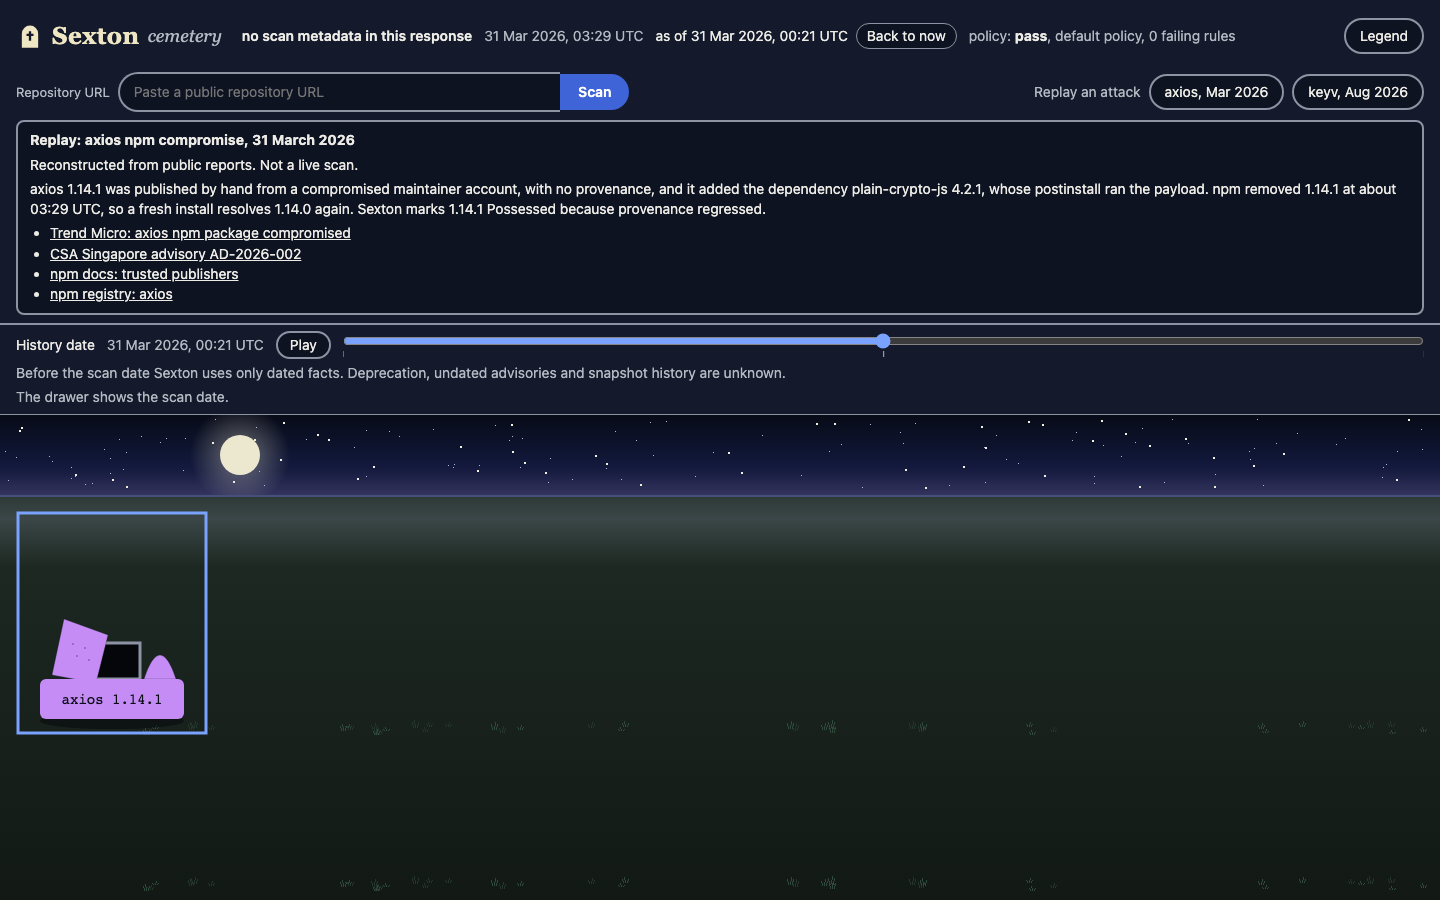
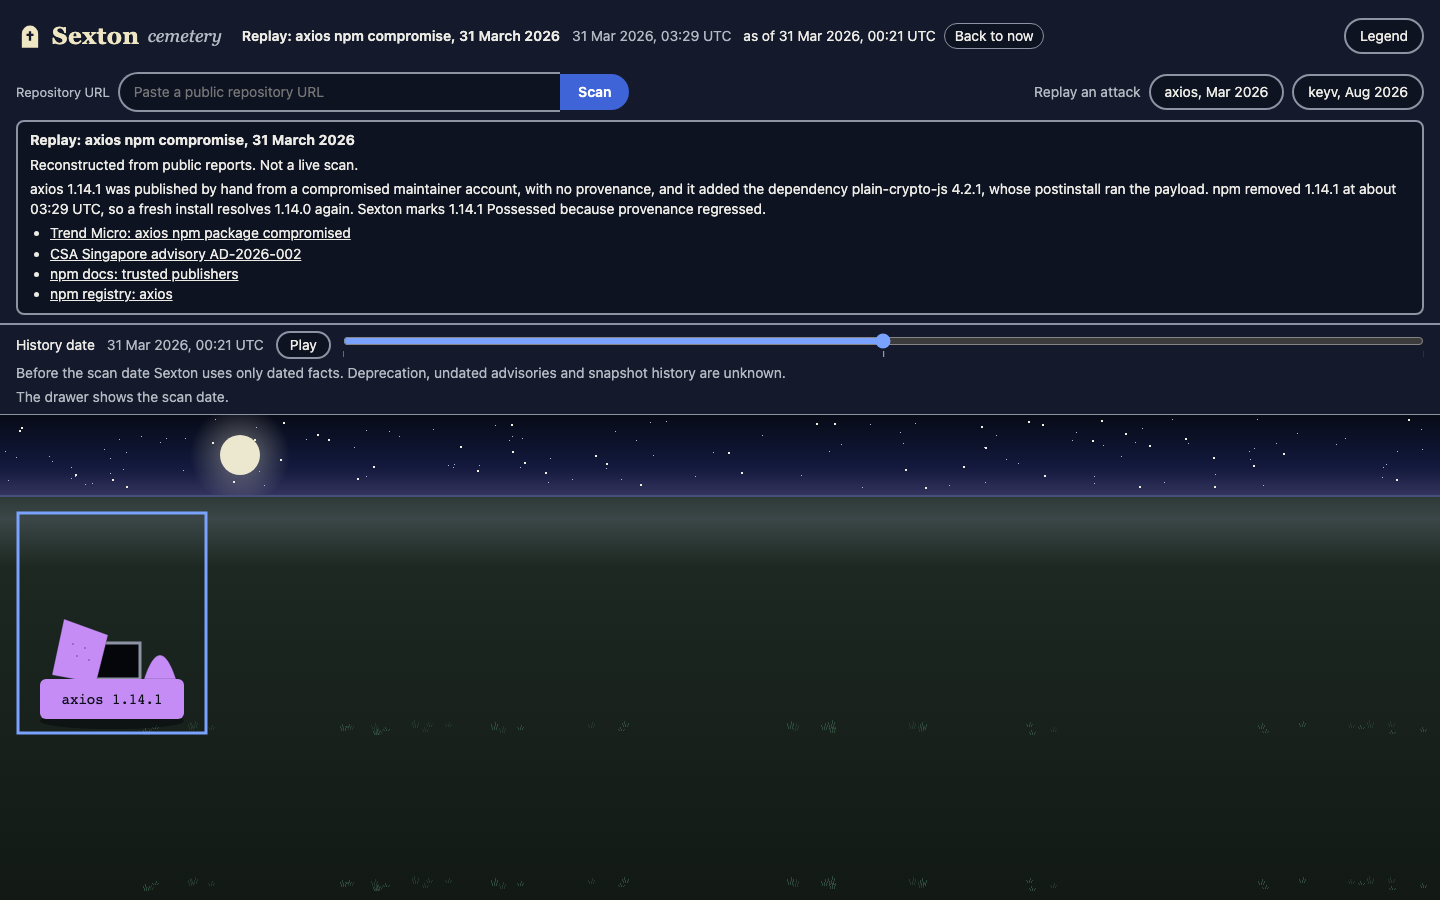
fix(web): replay header and policy line

Changed region(s): [[0.1562, 0.0311, 0.8438, 0.0622]]

diff --git a/packages/web/src/header/header-model.ts b/packages/web/src/header/header-model.ts
@@ -21,6 +21,8 @@ export interface HeaderModel {
   readonly policyLabel: "default policy" | "policy file";
   readonly failingRules: number;
   readonly evidenceLinks: EvidenceLinks | null;
+  /** False on a replay: its policy result is for the replay's end time, not for the date the scrubber shows. */
+  readonly showPolicy: boolean;
 }
 
 function unlockedNoticeFor(unlocked: boolean, names: readonly string[]): string | null {
@@ -44,12 +46,15 @@ function evidenceLinksFor(response: ScanResponse, isDemo: boolean, hostedApiBase
   return { json: `${base}&format=json`, markdown: `${base}&format=md` };
 }
 
-/** Pure. The demo label comes from isDemo only and never from the repository name. */
+/**
+ * Pure. The demo label comes from isDemo only and never from the repository name. A replay shows its title in place
+ * of the repository and hides the policy line.
+ */
 export function headerModel(response: ScanResponse, isDemo: boolean, hostedApiBase: string | null = null): HeaderModel {
   const { report, policy } = response;
   const scan = report.scan;
   return {
-    repoText: scan === undefined ? NO_SCAN_METADATA_TEXT : scan.repo.url,
+    repoText: response.replay !== undefined ? response.replay.title : scan === undefined ? NO_SCAN_METADATA_TEXT : scan.repo.url,
     demoLabel: isDemo && response.replay === undefined ? DEMO_LABEL_TEXT : null,
     scanTime: report.generatedAt,
     unlockedNotice: scan === undefined ? null : unlockedNoticeFor(scan.unlocked, scan.unlockedPackages),
@@ -61,5 +66,6 @@ export function headerModel(response: ScanResponse, isDemo: boolean, hostedApiBa
     policyLabel: policy.source === "default" ? "default policy" : "policy file",
     failingRules: policy.rules.filter((rule) => !rule.pass).length,
     evidenceLinks: evidenceLinksFor(response, isDemo, hostedApiBase),
+    showPolicy: response.replay === undefined,
   };
 }

diff --git a/packages/web/test/header.test.tsx b/packages/web/test/header.test.tsx
@@ -283,3 +283,25 @@ describe("Header bar (cemetery-polish task 8)", () => {
     ]);
   });
 });
+
+// Fix after review of cemetery-time-fixes: a replay names itself and hides the policy line, every other scan keeps both.
+describe("replay header text", () => {
+  it("shows the replay title and no policy line for a replay, and the repository and policy line without one", () => {
+    const base = cheapScan(1);
+    const replay = { ...base, replay: { id: "axios" as const, title: "Replay: axios npm compromise, 31 March 2026", summary: "s", sources: [{ label: "l", url: "https://example.com/" }] } };
+    const withReplay = headerModel(replay, false);
+    expect(withReplay.repoText).toBe("Replay: axios npm compromise, 31 March 2026");
+    expect(withReplay.showPolicy).toBe(false);
+    const plain = headerModel(base, false);
+    expect(plain.repoText).not.toBe("Replay: axios npm compromise, 31 March 2026");
+    expect(plain.repoText).toMatch(/^(https:\/\/github\.com\/|no scan metadata in this response$)/);
+    expect(plain.showPolicy).toBe(true);
+    const shown = render(<Header model={withReplay} theme="light" apiConfigured={true} onSubmit={noSubmit} />);
+    expect(shown.container.querySelector(".header-policy")).toBeNull();
+    expect(shown.container.textContent).toContain("Replay: axios npm compromise, 31 March 2026");
+    shown.unmount();
+    const kept = render(<Header model={plain} theme="light" apiConfigured={true} onSubmit={noSubmit} />);
+    expect(kept.container.querySelector(".header-policy")?.textContent).toMatch(/^policy: (pass|fail), /);
+    kept.unmount();
+  });
+});

diff --git a/packages/web/test/replay.test.tsx b/packages/web/test/replay.test.tsx
@@ -238,6 +238,23 @@ describe("the replay through the scrubber (requirement 20)", () => {
     }
   });
 
+  it("shows the replay title in place of the repository and no policy line, at every Stop", async () => {
+    for (const id of REPLAY_IDS) {
+      const { container } = mount(`?replay=${id}`);
+      await ready();
+      const title = (readReplay(id) as { replay: { title: string } }).replay.title;
+      for (let i = 0; i < EXPECTED_SEGMENTS[id].length; i += 1) {
+        move(i);
+        expect(container.querySelector(".repo-text")?.textContent).toBe(title);
+        expect(container.querySelector(".header-policy")).toBeNull();
+        const header = container.querySelector("header.site-header")?.textContent ?? "";
+        expect(header).not.toContain("no scan metadata in this response");
+        expect(header).not.toContain("policy:");
+      }
+      cleanup();
+    }
+  });
+
   it("returns to 1.14.0 at the end of the axios replay", async () => {
     const { container } = mount("?replay=axios");
     await ready();

diff --git a/packages/web/src/header/Header.tsx b/packages/web/src/header/Header.tsx
@@ -69,9 +69,11 @@ export function Header({ model, theme, apiConfigured, onSubmit, fieldRef, asOf, 
               )}
               {model.unlockedNotice === null ? null : <p className="notice notice-unlocked">{model.unlockedNotice}</p>}
               {model.cappedNotice === null ? null : <p className="notice notice-capped">{model.cappedNotice}</p>}
-              <p className="header-policy">
-                policy: <strong>{model.policyStatus}</strong>, {model.policyLabel}, {failingRulesText(model.failingRules)}
-              </p>
+              {model.showPolicy ? (
+                <p className="header-policy">
+                  policy: <strong>{model.policyStatus}</strong>, {model.policyLabel}, {failingRulesText(model.failingRules)}
+                </p>
+              ) : null}
             </>
           )}
         </div>

diff --git a/packages/web/e2e/smoke.spec.ts b/packages/web/e2e/smoke.spec.ts
@@ -148,6 +148,9 @@ test("the axios replay at its Possessed stop, for the README", async ({ page, ba
   await expect(grave).toHaveAttribute("aria-label", "axios 1.14.1, Possessed");
   await expect(page.locator('[role="note"]')).toBeVisible();
   await expect(page.getByRole("dialog")).toHaveCount(0);
+  // A replay names itself in the header and shows no policy line (its policy is for the replay's end time).
+  await expect(page.locator(".repo-text")).toHaveText("Replay: axios npm compromise, 31 March 2026");
+  await expect(page.locator(".header-policy")).toHaveCount(0);
   // Move focus off the slider so no focus ring is in the picture, then wait two frames for the repaint.
   await scrubber.blur();
   await waitForFirstPaint(page);

diff --git a/.kiro/specs/cemetery-time-fixes/tasks.md b/.kiro/specs/cemetery-time-fixes/tasks.md
@@ -11,7 +11,7 @@ Run-time notes for the agents:
 - Tests change only where design.md lists a Deliberate test change (numbered 1 to 19 there). Any other existing test that fails is a regression: fix the source, not the test.
 - Change only `packages/engine`, `packages/api`, `packages/web`, `README.md`, `docs/cemetery.png`, `docs/replay-axios.png`, `.kiro/steering/web.md` and `.kiro/specs/cemetery-time-fixes`. Nothing under `infra`, `packages/cli`, `packages/action` or `.github`, and no `package.json` or `package-lock.json`.
 - Regenerate derived files with `npm run demo:generate -w @sexton/api` (offline). Never run `fixtures:record` and never use the network in a test.
-- Each top-level task ends with a security review. Invoke the security-reviewer agent with the list of files that the task changed, ask it to review them against this spec's requirements and the security steering, record its findings in a "Review notes" line under that sub-task, and fix every finding of kind "defect" inside the same task before it is marked done.
+- Each top-level task ends with a security review. Run an independent security review on the list of files that the task changed, against this spec's requirements and the security steering, record the findings in a "Review notes" line under that sub-task, and fix every finding of kind "defect" inside the same task before it is marked done.
 - Run vitest one package at a time. Under load a first run can time out. Run the failing file alone before reading it as a regression.
 - No task asks the user a question. Every call that needed a decision is recorded in design.md "Calls made without a user decision". Dates written by a task are 24 Nov 2026 (UTC) or the date of the run.
 
@@ -45,7 +45,7 @@ Run-time notes for the agents:
     - _Requirements: 1.1, 1.2, 1.8_
     - Notes: commit 80c7543. api alone exit 0 (32 files, 286 tests, no demo folder created). Root `npm test` exit 0, 1836 tests. Per-package counts in design.md "Notes and open items". Clone removed.
   - [x] 1.7 Security review of task 1
-    - Invoke the security-reviewer agent on the files of 1.1 to 1.3. Record the findings in "Review notes". Fix every defect in this task.
+    - Run an independent security review on the files of 1.1 to 1.3. Record the findings in "Review notes". Fix every defect in this task.
     - _Requirements: 11.5_
     - Review notes: READY, no defect. Notes kept: the check reads single lines, so a path call split over lines is not flagged; only .ts, .tsx and .mjs are walked, as design.md says; the allow list is per file; the global setup checks only scan.json, which is the file the web tests read; `execFileSync("npm")` needs npm.cmd on Windows, and CI runs on Ubuntu and macOS only; the nag.test.ts entry is not strictly needed, kept because design.md lists it.
 
@@ -76,7 +76,7 @@ Run-time notes for the agents:
     - _Requirements: 2.3, 2.4, 2.5, 2.6, 2.10_
     - Notes: Property 4 in replay-facts.test.ts, 100 runs per replay, with the Stop instants, the millisecond before each and the Scan date as fixed cases. The bad publishes and Scan dates are literals from requirements 2.1 and 2.5. The review's note 1 added a literal check of the registry facts (a new test, not a change to an old one).
   - [x] 2.6 Security review of task 2
-    - Invoke the security-reviewer agent on the files of 2.1 to 2.5 and the two regenerated fixtures. Record the findings in "Review notes". Fix every defect in this task.
+    - Run an independent security review on the files of 2.1 to 2.5 and the two regenerated fixtures. Record the findings in "Review notes". Fix every defect in this task.
     - _Requirements: 11.5_
     - Review notes: READY, no defect. Acted on: note 1, no test pinned the literal facts of 2.1 and 2.2, so a test now does. Notes kept: the keyv 5.6.0 provenance source (call 12) is a comment, since Segments carry no source; a replay whose installed version had a boolean deprecated would need `factSources.deprecated`, which axios lacks, and no fact gives one today; Property 4 reuses the model of Property 13, which adds no no-regression input, with no effect while lastPublish is present; Property 4 does not check the report state, the EXPECTED and trace tests do.
 
@@ -111,7 +111,7 @@ Run-time notes for the agents:
     - _Requirements: 3.1, 4.2, 4.4, 4.11_
     - Notes: task 3 parts of changes 17 and 18 (slider 0 and keyv 5.6.0 Alive at load) and the Play test with `page.clock`. `npm run test:e2e -w @sexton/web`: 18 passed, none skipped, repaint medians 1.90 ms and 1.60 ms after a scrubber move. The smoke test rewrote docs/cemetery.png, restored until task 6.
   - [x] 3.7 Security review of task 3
-    - Invoke the security-reviewer agent on the files of 3.1 to 3.6. Record the findings in "Review notes". Fix every defect in this task.
+    - Run an independent security review on the files of 3.1 to 3.6. Record the findings in "Review notes". Fix every defect in this task.
     - _Requirements: 11.5_
     - Review notes: READY, no defect. Acted on: an event that changes nothing no longer clears the live line; the axe-while-playing example now holds the timer with fake timers so no tick lands during axe. Recorded as design decisions 1 and 2: the hook keys its state by load and takes the Stops. Notes kept: reduced motion is checked for timing only, and the play path has no animation code.
 
@@ -148,7 +148,7 @@ Run-time notes for the agents:
     - _Requirements: 5.2, 5.6, 6.4, 6.5_
     - Notes: App: the omitted line sits directly after the header, no slider, no live region; neither shows for a response with neither field. Scan: a hosted scan on the fixture transport carries timelines and no timelinesOmitted. generate-demo-scan.test.ts passes unedited. api 33 files, 296 tests. web 40 files, 391 tests.
   - [x] 4.7 Security review of task 4
-    - Invoke the security-reviewer agent on the files of 4.1 to 4.6. Record the findings in "Review notes". Fix every defect in this task.
+    - Run an independent security review on the files of 4.1 to 4.6. Record the findings in "Review notes". Fix every defect in this task.
     - _Requirements: 11.5_
     - Review notes: READY, no defect. Notes kept: no handler-level test drives a hosted scan over 5 MiB (the fixtures cannot reach it, the guard is unit tested and wired in one line); the 80 character case asserts no margin; the body is serialised twice on the hosted path, once by the guard and once by the handler.
 
@@ -172,7 +172,7 @@ Run-time notes for the agents:
     - _Requirements: 7.1, 7.2, 7.3, 7.5_
     - Notes: layout test at 1440 by 900 and two 360 px tests. First run: header 160 px, canvas top 201 px, and two cemetery-polish e2e tests failed because the field sat under the drawer. Fixed in the CSS (decision 4), not the tests. Second run: 21 passed, header 122.3 px, scrubber 41.3 px, canvas top 163.6 px, scrollWidth 360 on the demo and the axios replay. Recorded in design.md.
   - [x] 5.5 Security review of task 5
-    - Invoke the security-reviewer agent on the files of 5.1 to 5.4. Record the findings in "Review notes". Fix every defect in this task.
+    - Run an independent security review on the files of 5.1 to 5.4. Record the findings in "Review notes". Fix every defect in this task.
     - _Requirements: 11.5_
     - Review notes: READY, no defect. Acted on: the 0 row gap of `.scrub` is recorded as decision 5. Notes kept: below 960 px the group label wraps with the buttons, covered by the 360 px tests.
 
@@ -192,7 +192,7 @@ Run-time notes for the agents:
     - _Requirements: 9.3_
     - Notes: read both images. docs/cemetery.png: drawer closed, canvas top about 164 (at or above 190), "Replay an attack" and both buttons on the form row, label, date, Play and slider on one row, 12 graves. docs/replay-axios.png: banner with the title, the not-a-live-scan line, the summary and four links (Trend Micro, CSA, npm docs, npm registry), the open Possessed grave "axios 1.14.1", the as-of line "as of 31 Mar 2026, 00:21 UTC" with Back to now, slider at Stop 1, drawer closed. First pass of the replay image showed the form on row 1 and the Replay group on row 2, fixed and retaken.
   - [x] 6.4 Security review of task 6
-    - Invoke the security-reviewer agent on `docs/cemetery.png` and `docs/replay-axios.png` (metadata only) and `packages/web/e2e/smoke.spec.ts`. Record the findings in "Review notes". Fix every defect in this task.
+    - Run an independent security review on `docs/cemetery.png` and `docs/replay-axios.png` (metadata only) and `packages/web/e2e/smoke.spec.ts`. Record the findings in "Review notes". Fix every defect in this task.
     - _Requirements: 11.5_
     - Review notes: READY, no defect. Acted on: a unit test now pins `freeHeight` rounding up (test/free-height.test.ts). Notes kept: the paint wait relies on two frames after the Possessed label; the 1 px vertical overflow is recorded in decision 6; with a row gap of 0, a wrapped row 1 would get no gap, which cannot happen at 960 px and wider (row 1 needs about 708 px); the blue box in the pictures is the selected-grave ring.
 
@@ -204,7 +204,7 @@ Run-time notes for the agents:
     - _Requirements: 10.3_
     - Notes: the replay rule names "axios, Mar 2026" and "keyv, Aug 2026" in the group "Replay an attack". Four lines added: the opening Stop, the Play control, the omitted history line, and the canvas top at most 190 px with the two rows at 960 px and wider. Front matter and every other rule unchanged.
   - [x] 7.2 Security review of task 7
-    - Invoke the security-reviewer agent on `.kiro/steering/web.md`. Record the findings in "Review notes". Fix every defect in this task.
+    - Run an independent security review on `.kiro/steering/web.md`. Record the findings in "Review notes". Fix every defect in this task.
     - _Requirements: 11.5_
     - Review notes: READY, no defect. Every new line was checked against the built code. Note kept: the one-row scrubber at 960 px comes from the CSS and the e2e run.
 
@@ -216,7 +216,7 @@ Run-time notes for the agents:
     - _Requirements: 10.1, 10.2_
     - Notes: the Replay section names the group and both buttons, says a replay opens one hour before the attack so the grave starts Alive, and that Play steps through it. The image line is on its own line with the alt text of call 36. Both links and the not-a-live-scan sentence kept. No semicolon, no em dash. Deliberate test change 15: one new test in readme.test.ts, 8 of 8 pass.
   - [x] 8.2 Security review of task 8
-    - Invoke the security-reviewer agent on the files of 8.1. Record the findings in "Review notes". Fix every defect in this task.
+    - Run an independent security review on the files of 8.1. Record the findings in "Review notes". Fix every defect in this task.
     - _Requirements: 11.5_
     - Review notes: READY, no defect. Acted on: the test now checks "Press Play" instead of any "Play". The opening claim was checked against both fixtures.
 
@@ -248,7 +248,7 @@ Run-time notes for the agents:
     - _Requirements: 1.1, 1.2, 1.4, 1.8_
     - Notes: commit bee8968. api alone exit 0 (33 files, 296 tests, no demo folder created), root `npm test` exit 0 (1873 tests), bare web Vitest with the demo folder deleted exit 0 (41 files, 395 tests, demo files written by the global setup). Counts in design.md "Notes and open items". Clone removed.
   - [x] 9.7 Security review of the whole change
-    - Invoke the security-reviewer agent on the whole branch against this spec's requirements and the security steering. Record the findings in "Review notes". Fix every defect before the spec is closed.
+    - Run an independent security review on the whole branch against this spec's requirements and the security steering. Record the findings in "Review notes". Fix every defect before the spec is closed.
     - _Requirements: 11.5_
     - Review notes: READY, no defect, over the whole branch (8 commits, 43 paths). Checked: no secret, no network in tests, Engine untouched, no new fetch, no shell, no innerHTML, demo generator path untouched, every changed line of a pre-existing test maps to Deliberate test changes 1 to 19, numRuns and the 16 ms budget kept, all paths allowed, no trailers and no attribution. Notes kept: the 1 px vertical overflow of decision 6; the guard measures a body without timelines for a byte count only its tests read; a body still over the limit without timelines is not capped, as 5.4 allows; Property 4's model shares the generator's rules, and the EXPECTED rows and the literal facts test pin the values.
 
